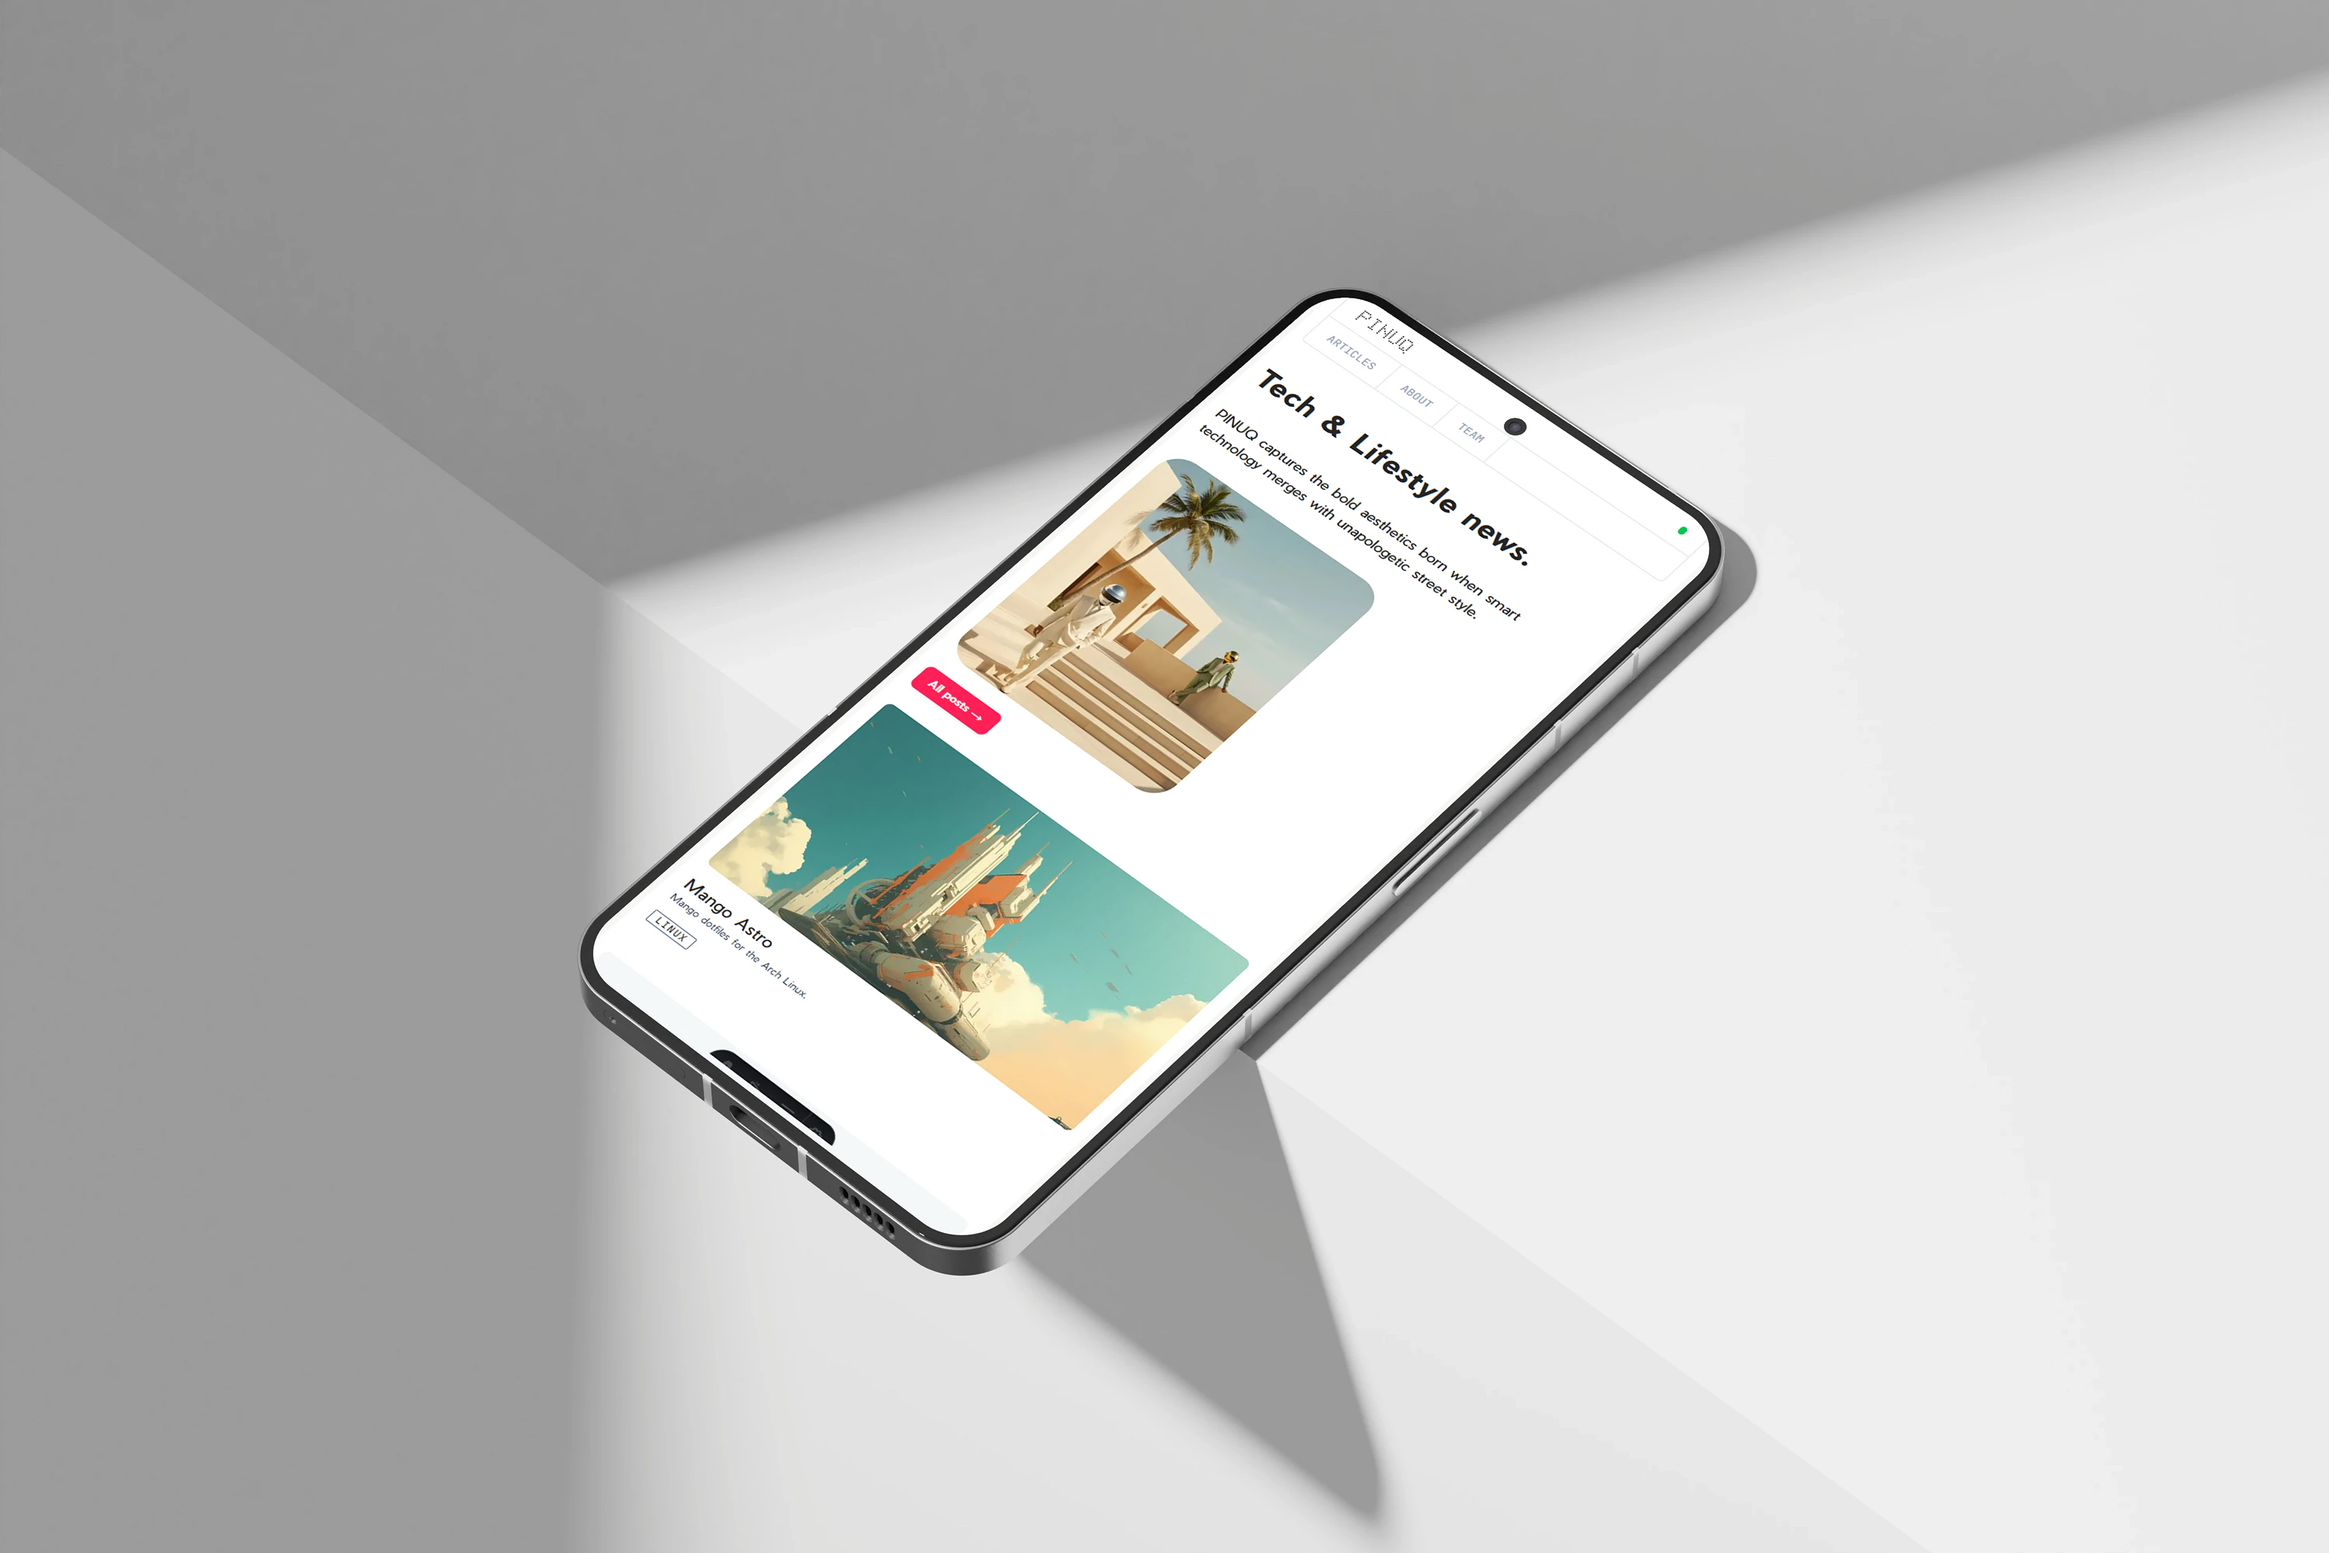
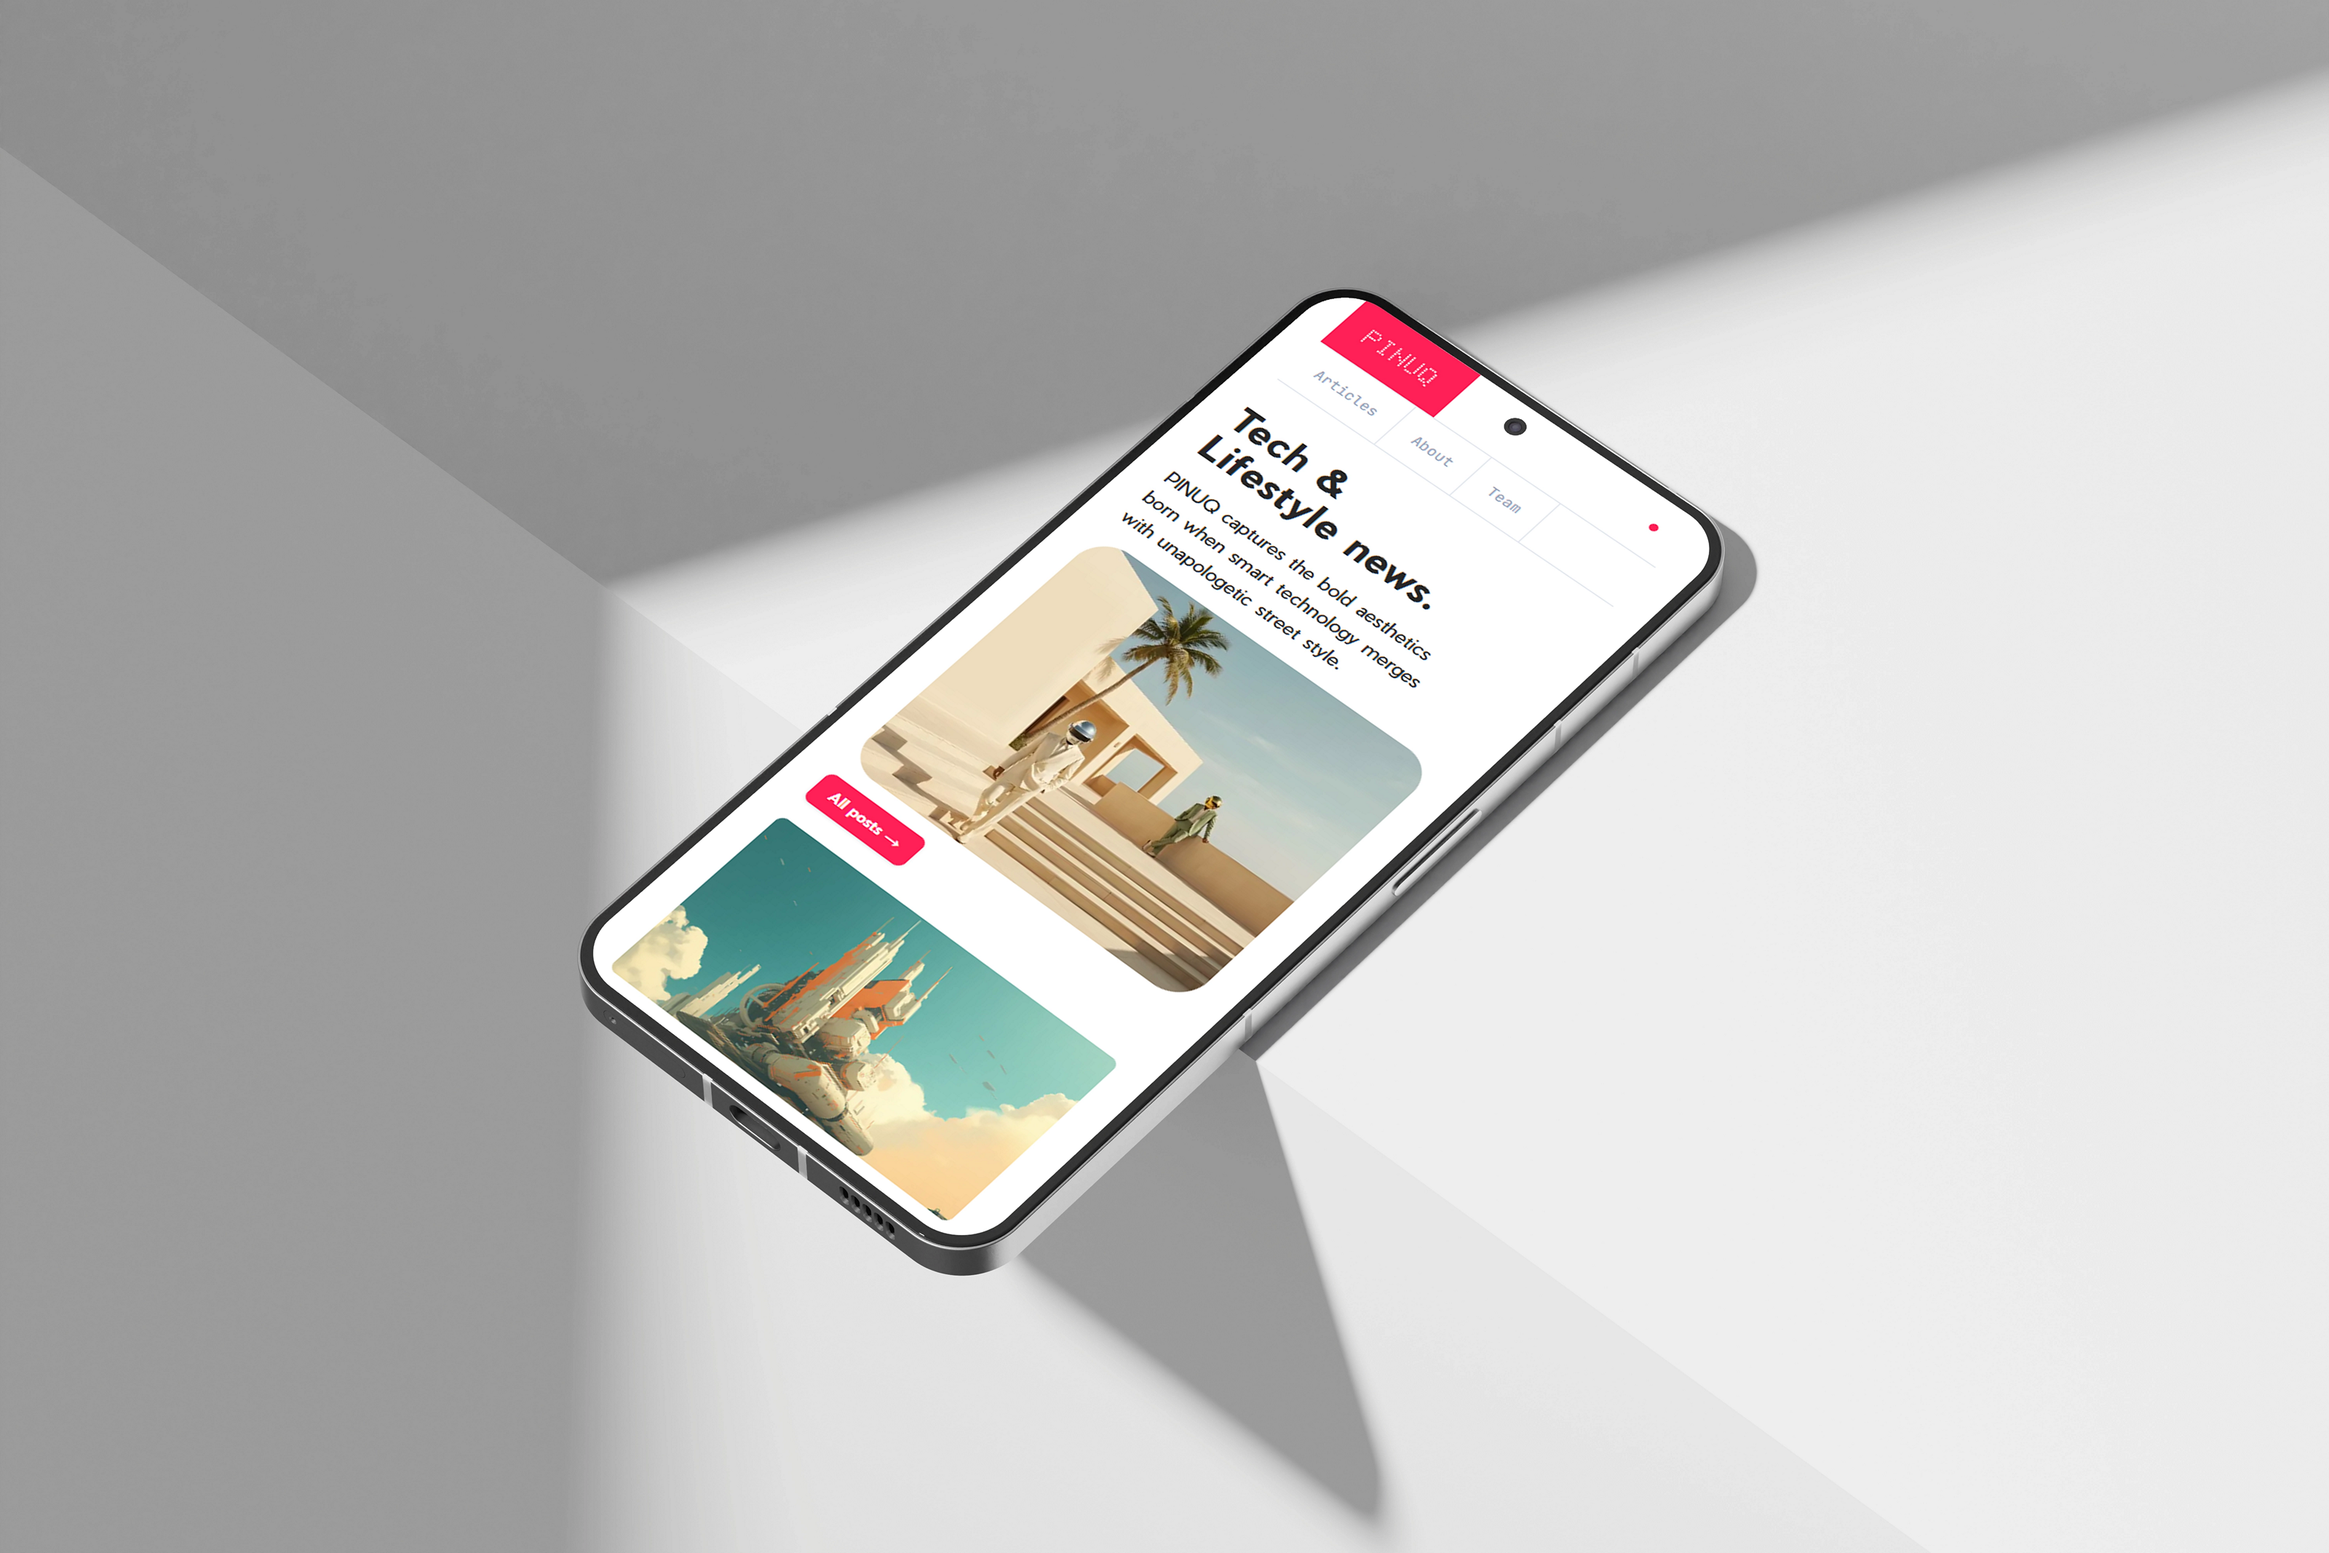
.

Changed region(s): [[0.25, 0.1856, 0.6562, 0.7732]]

diff --git a/src/styles/global.css b/src/styles/global.css
@@ -4,8 +4,6 @@
 @theme {
   --font-sans: var(--font-piersans), sans-serif;
   --font-mono: var(--font-jetbrains-mono), ui-monospace, monospace;
-
-  --spacing-fluid-p: clamp(1rem, 1vw, 2rem);
 }
 
 @custom-variant dark (&:where(.dark *));
@@ -30,7 +28,7 @@
 
 .dark {
   --background: #1c2644;
-  --stone: #1c2644;
+  --stone: oklch(27.58% 0.05747 268.552);
   --foreground: #687991;
   --primary: #e2dcd0;
   --primary-foreground: #1c2644;
@@ -43,7 +41,7 @@
 
 @theme inline {
   --color-background: var(--background);
-  --color-stone: var(--color-stone-50);
+  --color-stone: var(--stone);
   --color-foreground: var(--foreground);
   --color-primary: var(--primary);
   --color-primary-foreground: var(--primary-foreground);
@@ -166,21 +164,18 @@ html {
 }
 
 .blog-main-slot {
-  @apply mx-auto grid max-w-6xl w-full;
-  padding-bottom: clamp(5rem, 8vw, 8rem);
+  @apply mx-auto grid max-w-6xl w-full py-[clamp(2rem,4vw,6rem)];
 }
 
 .blog-grid {
   @apply grid grid-cols-1 md:grid-cols-2 lg:grid-cols-3;
 
-  column-gap: clamp(1.25rem, 3vw, 2.5rem);
-  row-gap: clamp(3.5rem, 7vw, 6rem);
+  column-gap: clamp(1.25rem, 2vw, 2rem);
+  row-gap: clamp(1rem, 2vw, 2rem);
 }
 
 .blog-categories {
   @apply flex gap-0.5 overflow-x-auto;
-
-  padding-block: 0.65rem;
 }
 
 .blog-categories a {

diff --git a/README.md b/README.md
@@ -1,4 +1,4 @@
-<img src="preview/d2.webp" width="100%">
+<img src="preview/d1.webp" width="100%"><img src="preview/d2.webp" width="100%">
 
 <img src="https://img.shields.io/badge/Pinuq-7678ed?style=for-the-badge" width="40%" alt="Pinuq">   
 
